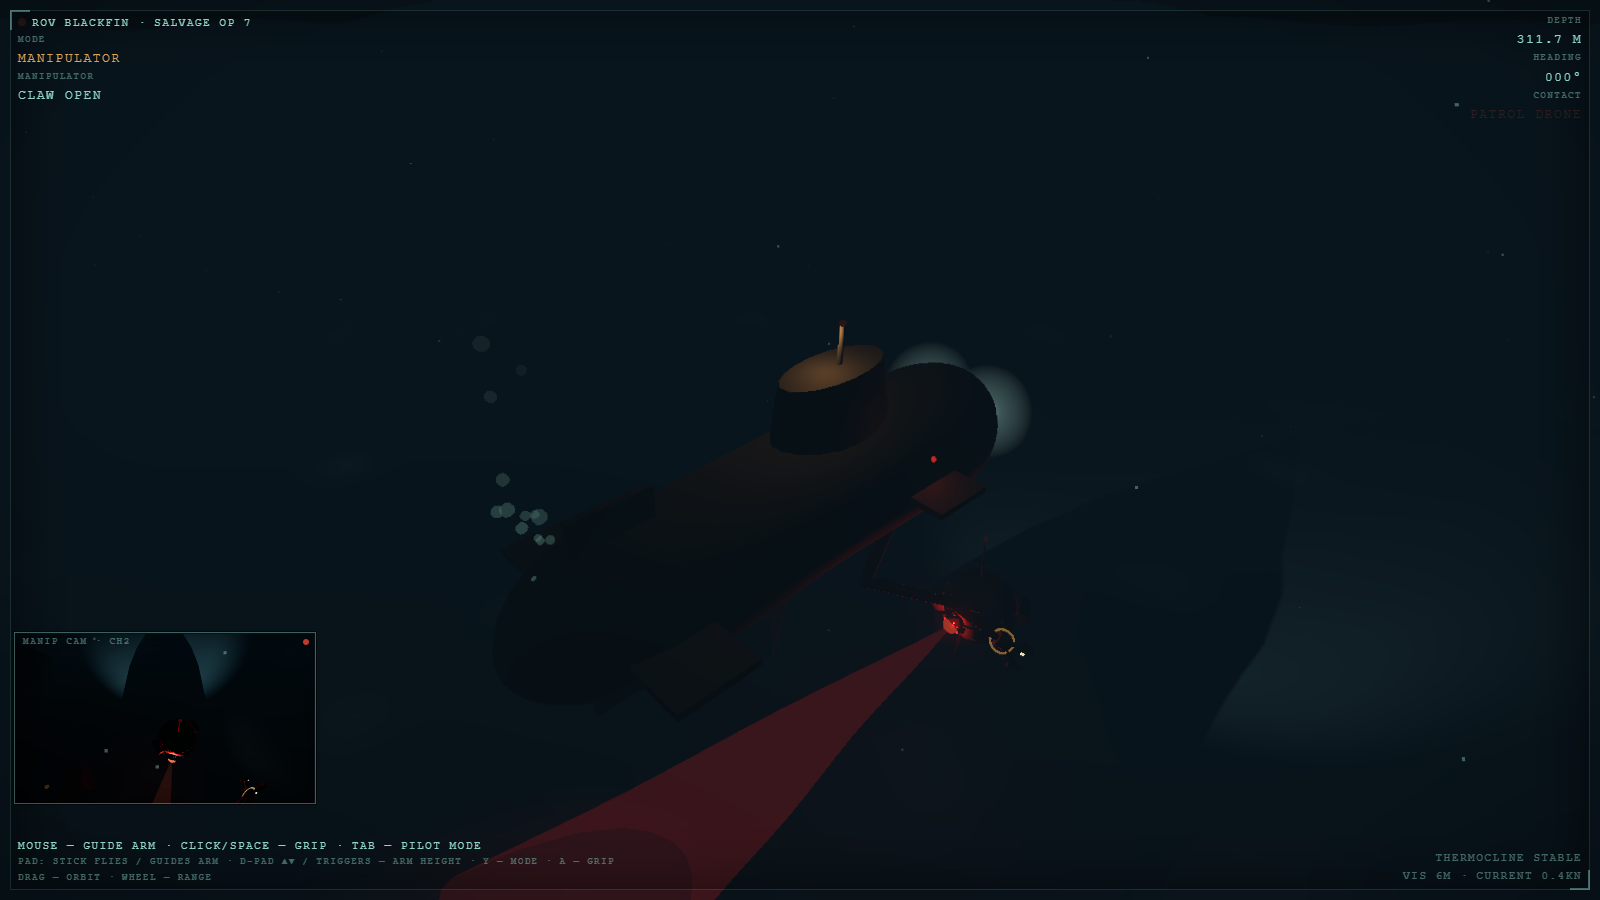
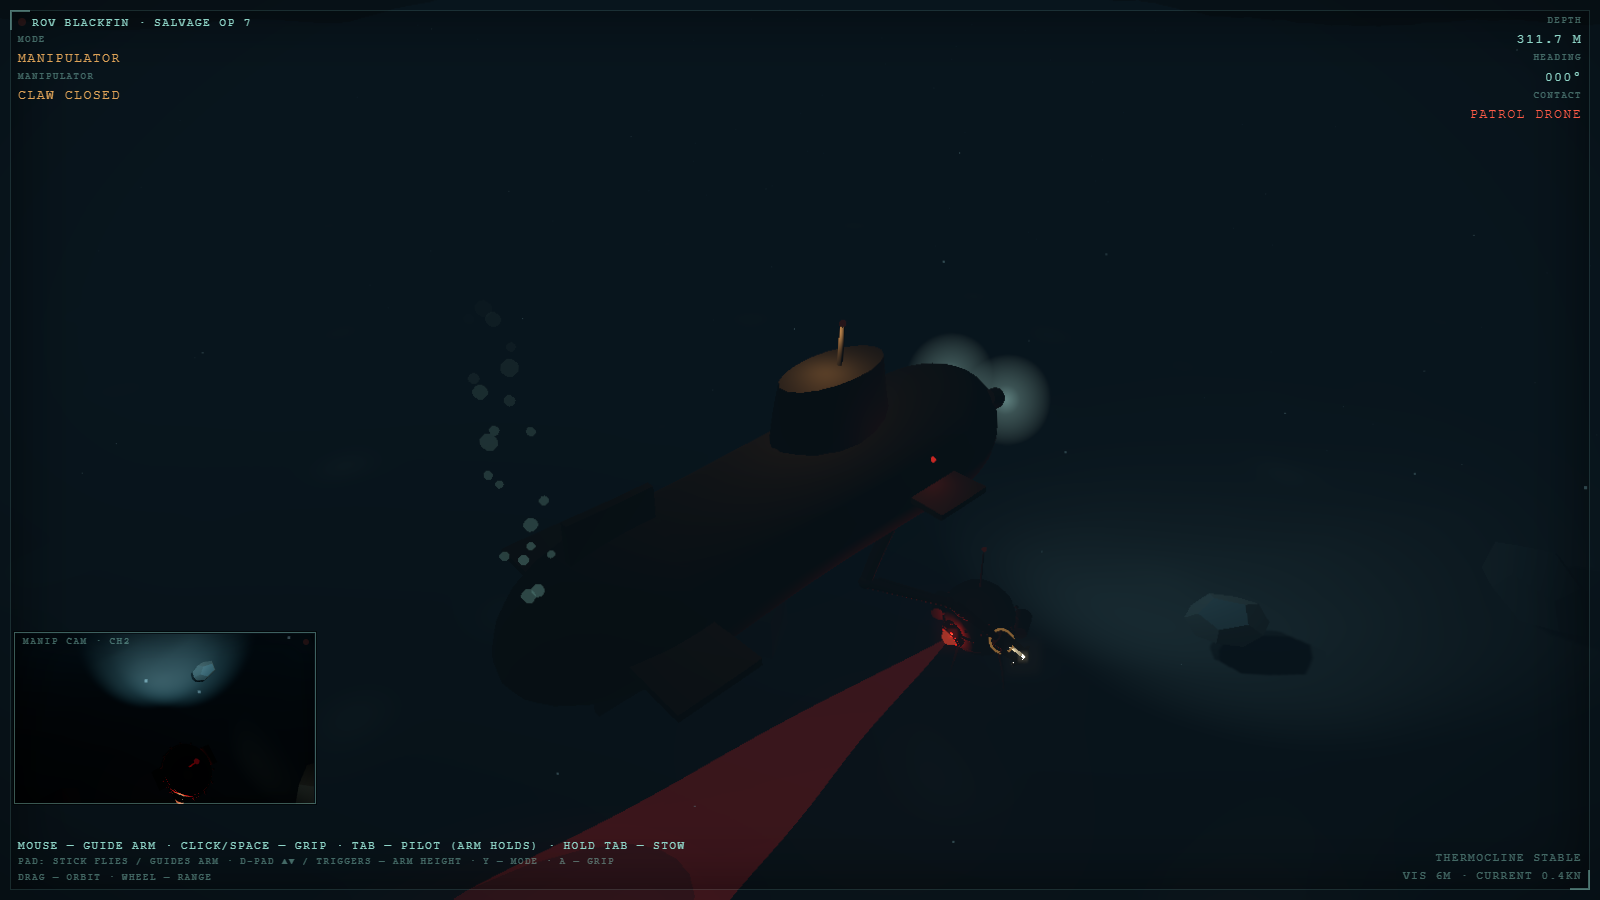
Arm pose persists across mode switches; long-press Tab/Y stows it
Short Tab/Y press switches mode with the arm frozen in place — stored
sub-relative, so it rides along while you fly and resumes exactly where
it was when you return to MANIPULATOR. Long press (>=0.5s) stows the
arm to its folded rest from either mode (stowing from MANIPULATOR also
returns to PILOT), with an ARM STOWED flash on the HUD.

verify_manip.mjs now exercises the full sequence: aim + grip -> mode
switch + fly (pose holds) -> long-press stow.

diff --git a/src/sub.ts b/src/sub.ts
@@ -688,18 +688,26 @@ type Mode = "PILOT" | "MANIPULATOR";
 let mode: Mode = "PILOT";
 
 const keys = new Set<string>();
+let tabDownAt = 0;
 window.addEventListener("keydown", (e) => {
   keys.add(e.code);
   if (e.code === "Tab") {
     e.preventDefault();
-    toggleMode();
+    if (!e.repeat) tabDownAt = performance.now();
   }
   if (e.code === "Space" && mode === "MANIPULATOR") {
     e.preventDefault();
     toggleClaw();
   }
 });
-window.addEventListener("keyup", (e) => keys.delete(e.code));
+window.addEventListener("keyup", (e) => {
+  keys.delete(e.code);
+  if (e.code === "Tab") {
+    // short press: switch mode (arm holds its pose). Long press: stow arm.
+    if (performance.now() - tabDownAt >= 500) stowArm();
+    else toggleMode();
+  }
+});
 
 let orbitYaw = parseFloat(params.get("yaw") ?? "0");
 let orbitPitch = parseFloat(params.get("pitch") ?? "0.12");
@@ -779,24 +787,55 @@ const contactEl = document.getElementById("contact")!;
 const hintPilot = document.getElementById("hintPilot")!;
 const hintManip = document.getElementById("hintManip")!;
 
-function toggleMode(): void {
-  mode = mode === "PILOT" ? "MANIPULATOR" : "PILOT";
+// The arm holds its pose across mode switches (stored sub-relative so it
+// rides along while you fly). Only an explicit long-press stow retracts it.
+let armStowed = true; // starts folded
+const heldLocal = new THREE.Vector3();
+
+function setMode(m: Mode): void {
+  mode = m;
   modeEl.textContent = mode;
   hintPilot.style.display = mode === "PILOT" ? "" : "none";
   hintManip.style.display = mode === "MANIPULATOR" ? "" : "none";
+}
+function toggleMode(): void {
   if (mode === "MANIPULATOR") {
-    // start the arm at a natural work position ahead of and below the bow,
-    // not wherever a stale target happens to be
-    forward.set(Math.sin(sub.yaw), 0, Math.cos(sub.yaw));
-    armTarget
-      .copy(sub.pos)
-      .addScaledVector(forward, 2.4)
-      .add(new THREE.Vector3(0, -1.6, 0));
+    // freeze the pose relative to the sub — it rides along in PILOT
+    subGroup.updateMatrixWorld();
+    heldLocal.copy(subGroup.worldToLocal(armTarget.clone()));
+    setMode("PILOT");
+  } else {
+    if (armStowed) {
+      // waking from stow: start at a natural work position at the bow
+      forward.set(Math.sin(sub.yaw), 0, Math.cos(sub.yaw));
+      armTarget
+        .copy(sub.pos)
+        .addScaledVector(forward, 2.4)
+        .add(new THREE.Vector3(0, -1.6, 0));
+      armStowed = false;
+    } else {
+      // resume exactly where the arm was left, in sub space
+      subGroup.updateMatrixWorld();
+      armTarget.copy(subGroup.localToWorld(heldLocal.clone()));
+    }
     mouseDirty = false;
+    setMode("MANIPULATOR");
   }
+}
+function stowArm(): void {
+  armStowed = true;
+  if (mode === "MANIPULATOR") setMode("PILOT");
+  flashClawHud("ARM STOWED");
+}
+
+let clawFlashUntil = 0;
+function flashClawHud(msg: string): void {
+  clawHud.textContent = msg;
+  clawFlashUntil = performance.now() + 1200;
 }
 function toggleClaw(): void {
   clawClosed = !clawClosed;
+  clawFlashUntil = 0;
   clawHud.textContent = clawClosed ? "CLAW CLOSED" : "CLAW OPEN";
   clawHud.classList.toggle("closed", clawClosed);
 }
@@ -814,6 +853,8 @@ const TURN = 1.4;
 const DRAG = 0.55;
 let throttle = 0; // |thrust input|, drives prop spin + wake turbulence
 let propSpin = 0;
+let padYWas = false; // gamepad Y long-press tracking
+let padYTime = 0;
 
 // ------------------------------------------------------------------- post ---
 const composer = new EffectComposer(renderer);
@@ -879,7 +920,15 @@ function animate(): void {
 
   const pad = readPad();
   if (pad) {
-    if (pad.pressed(3)) toggleMode(); // Y
+    // Y: short press toggles mode, long press (>=0.5s) stows the arm
+    const yNow = pad.held(3);
+    if (yNow) padYTime += dt;
+    else if (padYWas) {
+      if (padYTime >= 0.5) stowArm();
+      else toggleMode();
+      padYTime = 0;
+    } else padYTime = 0;
+    padYWas = yNow;
     if (pad.pressed(0) && mode === "MANIPULATOR") toggleClaw(); // A
     orbitYaw -= pad.rx * 2.2 * dt;
     orbitPitch = THREE.MathUtils.clamp(orbitPitch + pad.ry * 1.5 * dt, -0.5, 0.9);
@@ -1021,13 +1070,18 @@ function animate(): void {
       armTarget.copy(baseWorld).addScaledVector(off.normalize(), TOTAL * 1.15);
     }
     armTarget.y = Math.max(armTarget.y, floorY + 0.55);
-  } else {
-    // PILOT: arm folds in under the bow
+  } else if (armStowed) {
+    // PILOT, stowed: arm folds in under the bow
     mount.getWorldPosition(baseWorld);
     armTarget
       .copy(baseWorld)
       .addScaledVector(forward, 0.7)
       .add(new THREE.Vector3(0, -0.55 + Math.sin(t * 0.5) * 0.06, 0));
+  } else {
+    // PILOT, pose held: the arm rides along with the sub, exactly where
+    // the operator left it
+    subGroup.updateMatrixWorld();
+    armTarget.copy(subGroup.localToWorld(heldLocal.clone()));
   }
   smoothedTarget.lerp(armTarget, 1 - Math.exp(-8 * dt));
 
@@ -1117,6 +1171,12 @@ function animate(): void {
   causticsMat.uniforms.time.value = t;
   causticsMat.uniforms.camPos.value.copy(camera.position);
   underwaterPass.uniforms.time.value = t;
+
+  // restore claw HUD after a transient flash (e.g. "ARM STOWED")
+  if (clawFlashUntil && performance.now() > clawFlashUntil) {
+    clawFlashUntil = 0;
+    clawHud.textContent = clawClosed ? "CLAW CLOSED" : "CLAW OPEN";
+  }
 
   // --- HUD readouts (real values from the sim now) ---
   depthEl.textContent = (312.4 - sub.pos.y * 1.8).toFixed(1) + " M";

diff --git a/sub.html b/sub.html
@@ -76,8 +76,8 @@
         <div class="val" id="contact">NONE</div>
       </div>
       <div class="corner bl">
-        <div id="hintPilot">W/S THRUST · A/D TURN · R/F DEPTH · TAB — ARM MODE</div>
-        <div id="hintManip" style="display:none">MOUSE — GUIDE ARM · CLICK/SPACE — GRIP · TAB — PILOT MODE</div>
+        <div id="hintPilot">W/S THRUST · A/D TURN · R/F DEPTH · TAB — ARM MODE · HOLD TAB — STOW ARM</div>
+        <div id="hintManip" style="display:none">MOUSE — GUIDE ARM · CLICK/SPACE — GRIP · TAB — PILOT (ARM HOLDS) · HOLD TAB — STOW</div>
         <div class="label">PAD: STICK FLIES / GUIDES ARM · D-PAD ▲▼ / TRIGGERS — ARM HEIGHT · Y — MODE · A — GRIP</div>
         <div class="label">DRAG — ORBIT · WHEEL — RANGE</div>
       </div>